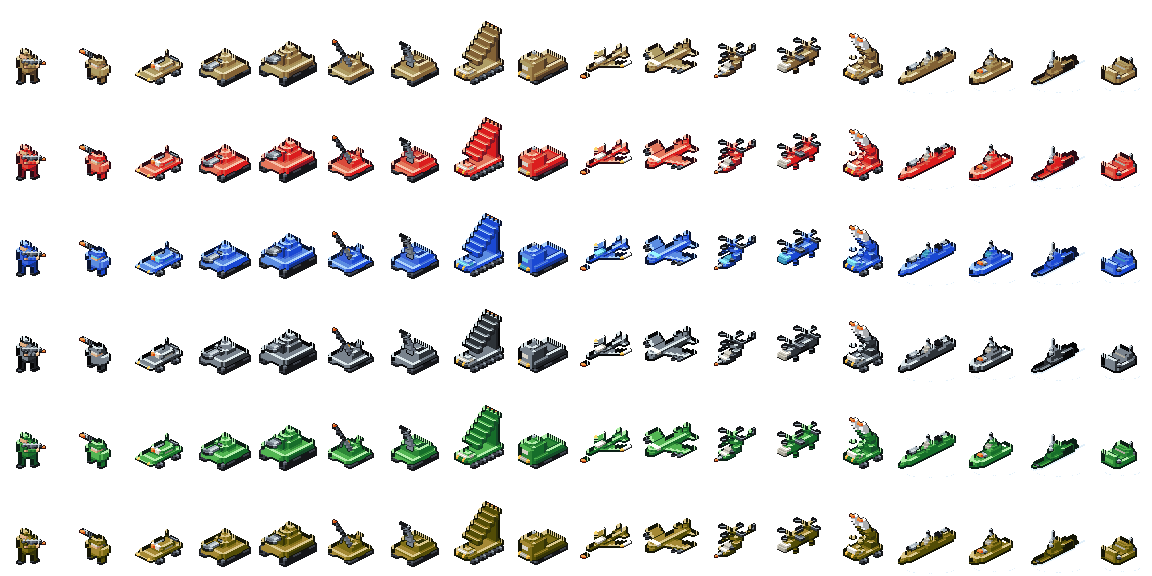
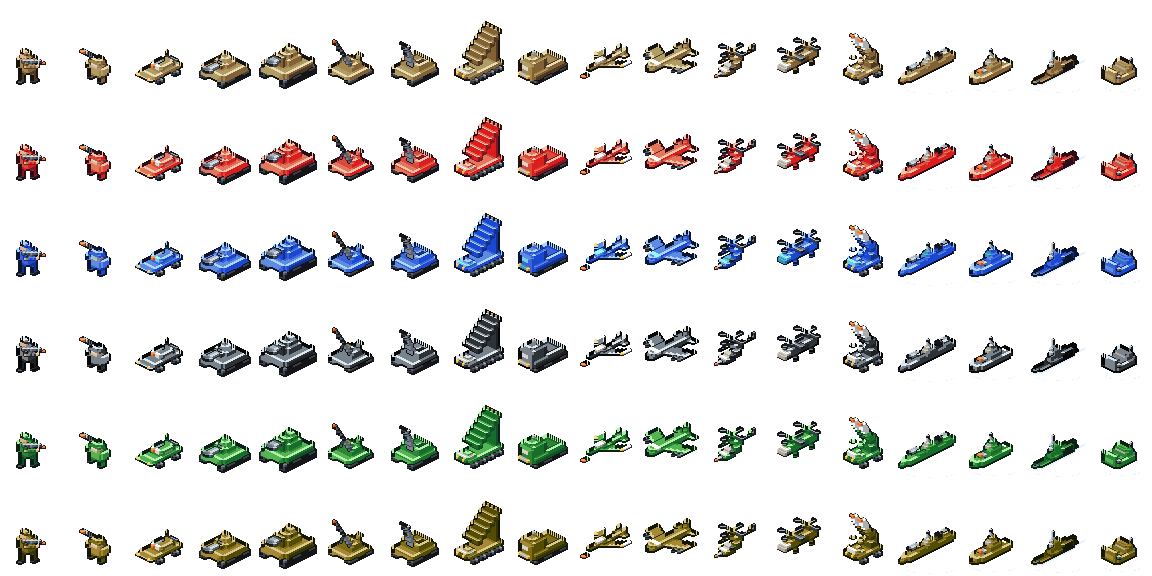
no-mistakes(review): Squat tank a full texel and bob the fire pair's off-beat

diff --git a/generators/sprites/spritegen/units/land.py b/generators/sprites/spritegen/units/land.py
@@ -20,7 +20,7 @@ from __future__ import annotations
 
 from ..voxel import Model
 from .parts import _gear_down, _roll, _shift, _tire, _track, _tread_phase
-from .pose import Pose, moving
+from .pose import Pose, fires, moving
 
 
 def recon(pose: Pose = Pose.A) -> Model:
@@ -109,7 +109,7 @@ def recon(pose: Pose = Pose.A) -> Model:
         # both staying inside the hull's own x/y extents
         _shift(m, (4, 5, 4, 10, 6, 7), dx=1, dy=-1)
         _shift(m, (2, 2, 1, 1, 4, 7), dx=1, dy=-1)
-    if pose in (Pose.FIRE_A, Pose.FIRE_B):
+    if fires(pose):
         # Pintle depressed on target: the mount, barrel and muzzle tip down
         # a board texel off the roof instead of sweeping across it, the
         # gunner braced behind it. FIRE_B traverses one further diagonal
@@ -237,17 +237,17 @@ def tank(pose: Pose = Pose.A) -> Model:
         # rebuilt down to the deck as the mount that holds it there
         _shift(m, (4, 7, 10, 20, 6, 7), dz=4)
         m.box(4, 7, 10, 10, 6, 9, "hull_dk")
-    if pose in (Pose.FIRE_A, Pose.FIRE_B):
+    if fires(pose):
         # Full recoil back through the mantlet: the whole gun — mantlet,
         # barrel, evacuator and muzzle brake — slides down its own axis
         # into the turret instead of laying up, and a fresh mantlet plug
         # closes the mount it recoiled through, the mirror of pose B's own
-        # rebuild the other way. The hull squats a half texel on its
+        # rebuild the other way. The hull squats one board texel on its
         # suspension under the shot, the whole model settling with it —
         # cannon is not a sustained style, so FIRE_B draws this same key.
         _shift(m, (4, 7, 10, 20, 6, 7), dy=-4)
         m.box(4, 7, 10, 10, 6, 7, "hull_dk")  # mantlet plug, closing the mount
-        _roll(m, -1)
+        _roll(m, -2)
     if pose is Pose.MOVE_A:
         # nose up: hull front, glacis and the leading track run, gun excluded,
         # with the run's contact courses painted back onto the ground
@@ -340,15 +340,15 @@ def md_tank(pose: Pose = Pose.A) -> Model:
     m.box(5, 7, 21, 21, 10, 10, "bore")
     if pose is Pose.B:
         _shift(m, (4, 8, 12, 21, 7, 11), dz=2)
-    if pose in (Pose.FIRE_A, Pose.FIRE_B):
+    if fires(pose):
         # Full recoil, the MBT's own reading scaled to the heavier gun: the
         # wide mantlet, the sleeved barrel and the muzzle brake slide back
         # through the mount instead of laying up, a fresh mantlet plug
-        # closing it. The hull squats a half texel with the rest of the
+        # closing it. The hull squats one board texel with the rest of the
         # model — cannon is not sustained, so FIRE_B draws this same key.
         _shift(m, (4, 8, 12, 21, 7, 11), dy=-4)
         m.box(4, 8, 12, 12, 7, 11, "hull_dk")  # mantlet plug, closing the mount
-        _roll(m, -1)
+        _roll(m, -2)
     if pose is Pose.MOVE_A:
         # nose up: stepped glacis, front hull and the leading track run
         _shift(m, (0, 12, 13, 16, 0, 6), dz=2)
@@ -442,7 +442,7 @@ def anti_air(pose: Pose = Pose.A) -> Model:
         for x in (3, 7):
             _shift(m, (x, x, 9, 14, 8, 18), dz=2)
             m.box(x, x, 8, 8, 8, 9, "gunmetal_dk")
-    if pose in (Pose.FIRE_A, Pose.FIRE_B):
+    if fires(pose):
         # Barrels level, runs staggered: one run at a time pulls back a
         # board texel through its own trunnion, the raked climb left at
         # pose A's travelling angle rather than pose B's elevated track —
@@ -557,7 +557,7 @@ def artillery(pose: Pose = Pose.A) -> Model:
         # ones, over the 5.0 shimmer bar. The full stroke clears the spike's
         # own width off the top of the sky.
         _shift(m, (3, 7, 6, 12, 8, 27), dz=-4)
-    if pose in (Pose.FIRE_A, Pose.FIRE_B):
+    if fires(pose):
         # Max recoil: the barrel rides twice the idle beat's own recoil
         # stroke down through its trunnion pedestal, and the whole carriage
         # rocks back onto its dug-in spade — the tracked family's own
@@ -666,7 +666,7 @@ def rockets(pose: Pose = Pose.A) -> Model:
             y0 = 11 - 2 * k
             _shift(m, (1, 8, y0, y0 + 1, 4 + 2 * k, 5 + 2 * k), dz=2)
         m.box(2, 7, 1, 2, 14, 15, "hull_dk")
-    if pose in (Pose.FIRE_A, Pose.FIRE_B):
+    if fires(pose):
         # Launch elevation: the whole slab pitches up a SECOND board texel
         # past the idle beat's own raised angle, the launch-frame wall grown
         # to match, and the high row's tube mouths lit — rounds part-run.
@@ -919,7 +919,7 @@ def missiles(pose: Pose = Pose.A) -> Model:
         for x0 in (2, 6):
             _shift(m, (x0, x0 + 1, 3, 9, 5, 16), dz=2)
             m.box(x0, x0 + 1, 3, 4, 5, 6, "hull_dk")
-    if pose in (Pose.FIRE_A, Pose.FIRE_B):
+    if fires(pose):
         # Launch elevation: both rounds run a SECOND board texel up the rail
         # past the idle beat's own raised position, the pedestal repainted
         # to match, and the seeker tips lit — rounds part-run. Rocket is not

diff --git a/generators/sprites/spritegen/units/sea.py b/generators/sprites/spritegen/units/sea.py
@@ -16,7 +16,7 @@ from __future__ import annotations
 
 from ..voxel import Model
 from .parts import _shift
-from .pose import Pose, beat, moving
+from .pose import Pose, beat, fires, moving
 
 
 def battleship(pose: Pose = Pose.A) -> Model:
@@ -85,7 +85,7 @@ def battleship(pose: Pose = Pose.A) -> Model:
             m.set(x, 18, 5, "hull_dk")
             _shift(m, (x, x, 0, 2, 4, 4), dz=2)
             m.set(x, 3, 5, "body_dk")
-    if pose in (Pose.FIRE_A, Pose.FIRE_B):
+    if fires(pose):
         # Batteries trained out: both turrets slew their guns one board
         # texel to the same broadside — the safe traverse direction the
         # under-way beat's own aft training already uses, since this hull
@@ -189,7 +189,7 @@ def cruiser(pose: Pose = Pose.A) -> Model:
         # muzzles included, on a mount that grows the same two voxels
         _shift(m, (3, 4, 14, 16, 3, 4), dz=2)
         m.box(3, 4, 13, 13, 4, 5, "hull_dk")
-    if pose in (Pose.FIRE_A, Pose.FIRE_B):
+    if fires(pose):
         # Forward mount blazing: the twin autocannon barrels recoil a board
         # texel back through their pedestal, muzzles included. FIRE_B kicks
         # them one further texel back, the jitter a sustained stream reads
@@ -317,7 +317,7 @@ def sub(pose: Pose = Pose.A) -> Model:
         # working
         _shift(m, (3, 3, 11, 11, 7, 8), dz=2)
         m.box(3, 3, 11, 11, 7, 8, "steel")
-    if moving(pose) or pose in (Pose.FIRE_A, Pose.FIRE_B):
+    if moving(pose) or fires(pose):
         # Search mast up TWO board texels and standing in its own shaft, not
         # the one texel pose B rides: at rung 1 a mast is at most a texel wide
         # whatever it is made of, so its length is the only thing the board
@@ -349,7 +349,7 @@ def sub(pose: Pose = Pose.A) -> Model:
         for y in range(14, 20):
             for x in (2, 3, 4, 5):
                 m.unset(x, y, 1)
-        if beat(pose) or pose in (Pose.FIRE_A, Pose.FIRE_B):
+        if beat(pose) or fires(pose):
             # The delta is the short ATTACK scope coming up beside the search
             # one — the search mast is already up in both frames, so what the
             # board sees moving is the second mast and not the first. It came
@@ -358,7 +358,7 @@ def sub(pose: Pose = Pose.A) -> Model:
             # boat that has opened its bow caps keeps its scope up.
             _shift(m, (4, 4, 13, 13, 5, 5), dz=2)
             m.set(4, 13, 5, "steel")
-        if pose in (Pose.FIRE_A, Pose.FIRE_B):
+        if fires(pose):
             # Bow caps open: the tapered bow tip's own deck row goes dark, two
             # tube doors on the waterline the trim above already bared.
             # Torpedo is not sustained, so FIRE_B draws this same key.

diff --git a/generators/sprites/spritegen/units/pose.py b/generators/sprites/spritegen/units/pose.py
@@ -52,9 +52,10 @@ CLIP_POSES: dict[str, tuple[Pose, ...]] = {
 # instead (`CutsceneSide`'s fallback, gated on domain rather than on this
 # one). FIRE_A/FIRE_B fall back the same way MOVE_A/MOVE_B do, which is what
 # an unarmed unit's fire clip draws — its own idle beat, so a side that never
-# fires never needs a runtime "is this unit armed" question of its own
-# (`CutsceneSide` asks the window instead, and an unarmed unit's window never
-# opens).
+# fires never needs a runtime "is this unit armed" question of its own. An
+# attacker's fire window opens whatever it carries (`CombatBeats.plan` sizes
+# a recoil ramp off `aim_seconds` alone); what makes that safe is the columns
+# it opens onto being byte-identical to the idle pair, bob included.
 _FALLBACK: dict[Pose, Pose] = {
     Pose.MOVE_A: Pose.A,
     Pose.MOVE_B: Pose.B,
@@ -74,11 +75,33 @@ def fires(pose: Pose) -> bool:
     return Pose(pose) in FIRE_POSES
 
 
-def beat(pose: Pose) -> bool:
-    """True on the off-beat of whichever clip is playing (B or MOVE_B).
+def off_beat(pose: Pose) -> bool:
+    """True on the second FRAME of whichever clip is playing.
 
-    Anything that ticks with the frame rather than with the clip — a rotor
-    blade phase, the air/sea bob — asks this instead of `pose is Pose.B`.
+    A COMPOSITION question — the air/sea bob (`atlas.cell_placement`), which
+    belongs to every clip alike because the cut-in swaps the fire pair in and
+    out mid-window on the same 500 ms clock the idle pair runs on: a fire
+    frame placed at its own clip's rest altitude would step the figure
+    `BOB_PX` the moment the window opened or closed.
+
+    A BUILDER asks `beat` instead. The two differ on `FIRE_B` alone, and see
+    `beat` for why.
+    """
+    return Pose(pose) in (Pose.B, Pose.MOVE_B, Pose.FIRE_B)
+
+
+def beat(pose: Pose) -> bool:
+    """True on the off-beat KEY a builder authors — B or MOVE_B.
+
+    Anything whose MODEL ticks with the frame rather than with the clip — a
+    rotor blade phase, a canopy glint — asks this instead of
+    `pose is Pose.B`. `FIRE_B` is deliberately outside it: the fire clip's
+    second key is authored by hand for the units in `FIRE_PAIRS` and by
+    nobody else, so a unit whose weapon fires one shot draws the SAME model
+    into both fire frames (`test_fire_pose.PairVsSingle`) — an ambient tick
+    leaking onto `FIRE_B` would quietly make a single-key unit a pair. What
+    the fire frames still take from the frame is their PLACEMENT: see
+    `off_beat`.
     """
     return Pose(pose) in (Pose.B, Pose.MOVE_B)
 

diff --git a/generators/sprites/spritegen/units/__init__.py b/generators/sprites/spritegen/units/__init__.py
@@ -59,9 +59,13 @@ fallback is also why a builder's pose test has to say which question it asks:
 
 * `if pose is Pose.B` is an AMBIENT-only branch — the idle beat, and nothing
   else. A move pose reaching that builder must not fall into it.
-* `if beat(pose)` is the OFF-BEAT of whatever clip is playing (B or MOVE_B) —
-  for anything that ticks with the frame regardless of clip, such as a rotor
-  blade phase.
+* `if beat(pose)` is the off-beat KEY a builder authors (B or MOVE_B) — for
+  anything whose MODEL ticks with the frame regardless of clip, such as a
+  rotor blade phase. The fire clip is outside it on purpose: its second key is
+  hand-authored for `FIRE_PAIRS` and by nobody else, so a single-shot weapon
+  draws one model into both fire frames. What every clip's second FRAME does
+  share is its PLACEMENT — `off_beat`, which `atlas.cell_placement` asks for
+  the air/sea bob and a builder never does.
 
 An `else` that quietly means "pose B" is the trap: with four poses,
 `X if pose is Pose.A else Y` hands MOVE_A the B branch. Write the beat side as
@@ -85,6 +89,7 @@ from .pose import FIRE_PAIRS as FIRE_PAIRS
 from .pose import FIRE_POSES as FIRE_POSES
 from .pose import MOVE_POSES as MOVE_POSES
 from .pose import beat as beat
+from .pose import off_beat as off_beat
 from .sea import battleship, cruiser, lander, sub
 
 
@@ -122,11 +127,11 @@ def resolved_pose(uid: str, pose: Pose) -> Pose:
     `pose` belongs to.
 
     The one seam `build_model` reaches a builder through, and also the one
-    `atlas.cell_placement` reads before asking `units.beat` whether this
+    `atlas.cell_placement` reads before asking `units.off_beat` whether this
     frame bobs — a fallback cell has to bob exactly as its FALLBACK pose
     does (an unarmed air unit's `FIRE_B` cell is pixel-identical to its `B`
-    cell, bob included), which asking `beat` of the un-resolved `FIRE_B`
-    cannot answer, `beat` never having heard of the fire clip.
+    cell, bob included), and `KO`'s fallback is the rest key, which the raw
+    pose cannot say.
     """
     pose = Pose(pose)
     if moving(pose) and uid not in MOVES:

diff --git a/generators/sprites/tests/test_fire_pose.py b/generators/sprites/tests/test_fire_pose.py
@@ -26,7 +26,15 @@ import unittest
 
 from spritegen import anim, atlas, pipeline
 from spritegen.palette import FACTIONS
-from spritegen.units import ATLAS_ORDER, FIRE_PAIRS, FIRES, UNITS, Pose, build_model
+from spritegen.units import (
+    ATLAS_ORDER,
+    CLIP_POSES,
+    FIRE_PAIRS,
+    FIRES,
+    UNITS,
+    Pose,
+    build_model,
+)
 
 from pixel_helpers import pose_cell, units_sheet
 
@@ -159,6 +167,31 @@ class PairVsSingle(unittest.TestCase):
                 self.assertEqual(
                     build_model(uid, Pose.FIRE_A).vox, build_model(uid, Pose.FIRE_B).vox
                 )
+
+
+class Bob(unittest.TestCase):
+    """The air/sea bob ticks with the FRAME, not with the clip.
+
+    Asked of EVERY two-frame clip rather than of the fire pair alone, since
+    what breaks is silent: the cut-in swaps the fire pair in and out
+    mid-window on the same 500 ms director's clock the idle pair runs on
+    (`CutsceneSide._figure_now`), so a clip whose second frame sat at the
+    first's altitude would step the figure `BOB_PX` the moment the window
+    opened or closed — a pop no still frame of a posed capture can show.
+    A land unit's origin is pose-invariant instead: its own beat is authored
+    in the model (`parts._roll`), never in the placement.
+    """
+
+    def test_every_two_frame_clip_lifts_its_off_beat_for_air_and_sea(self):
+        for uid, (_, kind) in UNITS.items():
+            lift = atlas.BOB_PX if kind in ("air", "sea") else 0
+            for clip, poses in CLIP_POSES.items():
+                if len(poses) < 2:
+                    continue
+                with self.subTest(unit=uid, clip=clip):
+                    rest, off_beat = (atlas.cell_placement(uid, p) for p in poses)
+                    self.assertEqual(rest.origin[0], off_beat.origin[0])
+                    self.assertEqual(rest.origin[1] - off_beat.origin[1], lift)
 
 
 class Silhouette(unittest.TestCase):

diff --git a/generators/sprites/spritegen/units/air.py b/generators/sprites/spritegen/units/air.py
@@ -14,7 +14,7 @@ from __future__ import annotations
 
 from ..voxel import Model
 from .parts import _BLADE_A, _BLADE_B, _rotor, _shift
-from .pose import Pose, beat, moving
+from .pose import Pose, beat, fires, moving
 
 
 def _burner_reach(pose: Pose) -> int:
@@ -96,7 +96,7 @@ def fighter(pose: Pose = Pose.A) -> Model:
         m.set(5, 12, 5, "glass_dk")
         m.set(2, 1, 3, "hull_dk")
         m.set(7, 1, 3, "hull_dk")
-    if pose in (Pose.FIRE_A, Pose.FIRE_B):
+    if fires(pose):
         # Nose gun blaze: the radome tip dips one board texel, the same
         # nose-down attitude the move clip's own dip gives the whole
         # forward fuselage, held to just the tip since the airframe is not
@@ -196,7 +196,7 @@ def bomber(pose: Pose = Pose.A) -> Model:
             # step behind the flight deck.
             _shift(m, (4, 7, 14, 20, 1, 3), dz=-2)
             m.box(4, 7, 13, 13, 0, 1, "hull")
-    if pose in (Pose.FIRE_A, Pose.FIRE_B):
+    if fires(pose):
         # Bay doors open — the natural bomb-run frame: a dark gap drops
         # clear under the belly the doors line marks, one board texel below
         # the fuselage's own lowest course. Bomb is not sustained, so
@@ -251,7 +251,7 @@ def b_copter(pose: Pose = Pose.A) -> Model:
     # The rotor ticks with the FRAME, not the clip: a moving helicopter's
     # blades are at the off-beat position on MOVE_B exactly as on B.
     _rotor(m, 4, 10, 9, _BLADE_B if beat(pose) else _BLADE_A)
-    if pose in (Pose.FIRE_A, Pose.FIRE_B):
+    if fires(pose):
         # Nose down two texels, chin gun on the line: the nose and canopy
         # rake down twice the move clip's own dip, and the chin gun tracks
         # with it — capped a texel shallower so its muzzle never crosses

diff --git a/generators/sprites/spritegen/atlas.py b/generators/sprites/spritegen/atlas.py
@@ -141,13 +141,15 @@ def cell_placement(uid: str, pose: Pose) -> Placement:
     kind = UNITS[uid][1]
     minx_a, miny_a, w_a, h_a, fw_a = _pose_a_box(uid)
     ground = CELL_H - (AIR_BOTTOM if kind == "air" else GROUND_BOTTOM)
-    # `beat` is asked of the RESOLVED pose, not the raw one: a fallback cell
-    # (a unit outside `MOVES`/`KOS`/`FIRES` drawing another clip's key) has
-    # to bob exactly as that key does, and `units.beat` has never heard of
-    # the fire clip's own `FIRE_B` to answer that on its own.
-    bob = (
-        BOB_PX if units.beat(units.resolved_pose(uid, pose)) and kind in _BOBBING else 0
-    )
+    # The bob belongs to the FRAME, not to the clip (`units.off_beat`): the
+    # cut-in swaps the fire pair in and out mid-window on the same clock the
+    # idle pair runs on, so every clip's second frame is composed at the same
+    # altitude or the figure steps `BOB_PX` at the swap. Asked of the RESOLVED
+    # pose, not the raw one: a fallback cell (a unit outside
+    # `MOVES`/`KOS`/`FIRES` drawing another clip's key) has to bob exactly as
+    # the key it falls back to does, and KO's is the rest key.
+    resolved = units.resolved_pose(uid, pose)
+    bob = BOB_PX if units.off_beat(resolved) and kind in _BOBBING else 0
     # Only a land unit's shadow WIDTH is sized off the base plane rather than
     # the whole silhouette — air and sea keep the sprite's own width, an
     # aircraft having no ground contact to measure and a hull's displacement

diff --git a/generators/sprites/spritegen/units/foot.py b/generators/sprites/spritegen/units/foot.py
@@ -4,7 +4,7 @@ from __future__ import annotations
 
 from ..voxel import Model
 from .parts import _shift
-from .pose import Pose, beat, moving
+from .pose import Pose, beat, fires, moving
 
 
 def _stride(m: Model, lead: str, rise: int = 0) -> None:
@@ -246,7 +246,7 @@ def infantry(pose: Pose = Pose.A) -> Model:
         # rifle-only one-voxel settle, half a texel and inside the shape),
         # 12 now; rung 2 goes 8 -> 45 (`tests/measure_motion.py`).
         _shift(m, (1, 11, 2, 8, 6, 16), dx=1, dy=-1)
-    if pose in (Pose.FIRE_A, Pose.FIRE_B):
+    if fires(pose):
         # Shouldered to the cheek: the whole rifle line and the wrist that
         # carries it climb a whole board texel, landing the receiver by the
         # jaw instead of the chest — the muzzle rides with it, which is what
@@ -417,7 +417,7 @@ def mech(pose: Pose = Pose.A) -> Model:
         # against 7 now, 15 -> 29 at rung 2 (`tests/measure_motion.py`).
         _shift(m, (0, 0, 3, 6, 7, 8), dz=-2)  # left pauldron
         _shift(m, (0, 1, 2, 9, 9, 16), dz=-2)  # launcher, arm, pauldron top
-    if pose in (Pose.FIRE_A, Pose.FIRE_B):
+    if fires(pose):
         # Kneeling brace: everything the belt carries — torso, backpack,
         # pauldrons, helmet and the launch tube — settles a board texel onto
         # a crouch, the tube left at pose A's own resting angle (level on

diff --git a/generators/sprites/README.md b/generators/sprites/README.md
@@ -384,7 +384,7 @@ py=~/.cache/grid_commanders/venv-sprites/bin/python
 | `units_atlas_b.png` | ambient animation frame B: every unit's second key pose (`units.Pose.B`) — treads walked, suspensions settled, rotors turned a notch on their own blades, air and sea bobbed one board texel (`atlas.BOB_PX`) over a shadow, a wake and a foam line that stay on the surface. Every pose is placed by the model's screen origin, never by its own crop, so a beat moves the unit and not the cell |
 | `units_atlas_figures.png`, `units_atlas_figures_b.png` | the same two ambient frames with the tile's cast shadow subtracted, for the cut-ins (see below) |
 | `units_atlas_figures_ko.png` | one AUTHORED casualty frame per unit — a crumpled figure, a burnt-out hull, a hull settled by the stern — shadowless like the figure pair. The board never draws it, so there is no board-sheet sibling; air carries no frame in v1 and draws its own rest key instead (`units.KOS`), which the cut-in never asks for |
-| `units_atlas_figures_fire.png`, `units_atlas_figures_fire_b.png` | one AUTHORED muzzle-lit frame per ARMED unit — a barrel at full recoil, a rack at launch elevation, bay doors open — shadowless like the figure pair. The board never draws it, so there is no board-sheet sibling; a unit outside `units.FIRES` draws its own rest key instead (`units.pose._FALLBACK`), which the cut-in never asks for since its fire window never opens for an unarmed side. The second sheet is a real second key only for the sustained weapon families (`units.pose.FIRE_PAIRS`) — everything else draws the same model into both, so the pair reads as a held muzzle flash rather than a cycle |
+| `units_atlas_figures_fire.png`, `units_atlas_figures_fire_b.png` | one AUTHORED muzzle-lit frame per ARMED unit — a barrel at full recoil, a rack at launch elevation, bay doors open — shadowless like the figure pair. The board never draws it, so there is no board-sheet sibling; a unit outside `units.FIRES` draws its own rest key instead (`units.pose._FALLBACK`), which the cut-in DOES ask for — an attacker's fire window opens whatever it carries — and gets a column byte-identical to its idle pair, bob included, which is what makes the fallback need no domain gate. The second sheet is a real second key only for the sustained weapon families (`units.pose.FIRE_PAIRS`) — everything else draws the same model into both, so the pair reads as a held muzzle flash rather than a cycle |
 | `units_atlas_move.png` | 1152x576 RGBA — the move clip's frame A (`units.Pose.MOVE_A`): the same 18 columns by 6 rows of 64x96 cells as the ambient sheet, the same army under way instead of parked. One facing only — the models face +y, which this projection puts at screen lower-LEFT, so these are the left-facing sheets and the consumer mirrors them about the cell centre for a rightward move (`clips.move.facing`/`flip_x_for`). Nothing in a move frame encodes screen-handedness |
 | `units_atlas_move_b.png` | the move clip's frame B (`units.Pose.MOVE_B`), one stride later — gait only, never travel (see below). All four poses pin to pose A's crop, so swapping the clip never moves the cell, and a unit outside `units.MOVES` renders its ambient counterpart instead (MOVE_A -> A, MOVE_B -> B), which keeps the pair valid whatever is authored |
 | `terrain_atlas.png` | 896x384 RGBA — drop-in `assets/tiles/terrain_atlas.png`; property columns carry alpha |
@@ -426,8 +426,9 @@ direction the art is drawn facing and the direction the consumer mirrors it
 for; a clip with no `facing` — `ambient`, `ambient_figures`, `sea`, `ko`,
 `fire` — must never be mirrored. `fallback` (`"ambient"`) is shared by the
 three clips a unit may be left out of, and `docs/move_clip.md` owns what it
-means: the install's absence for `move`, and a unit's own for the other two,
-which is why an unauthored `ko` or `fire` column must not be drawn.
+means: the install's absence for `move`, and a unit's own for the other two.
+An unauthored `ko` column must not be drawn; an unauthored `fire` one is drawn
+and is simply the unit's idle key, which is the contract the cut-in leans on.
 
 The move cadence is `anim.MOVE_MS` = **160 ms**, and it is chosen against the
 game's tween rather than against the art: the board moves a unit one cell in
